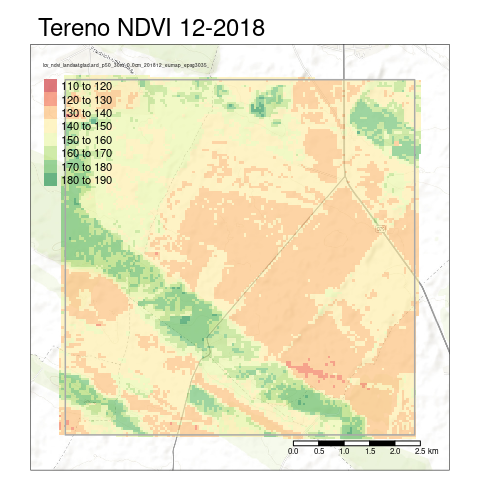
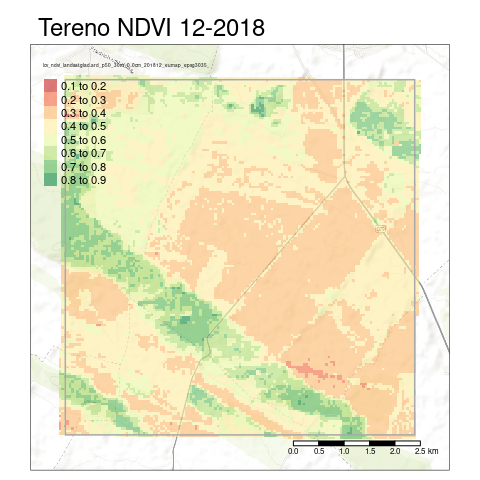
Revert COG values to original NDVI range

diff --git a/code/download_ODS.md b/code/download_ODS.md
@@ -107,6 +107,19 @@ if (!dir.exists(Highres_dir)) {dir.create(Highres_dir,
   - Save as Geotiff each 3-month average NDVI for 20 years covering the
     eLTER site
 
+Note that the Geoharmonizer program produces Cloud Optimized Geotiff
+(COG) files. Details at: <https://www.cogeo.org/> and the gdal driver is
+documented here: <https://gdal.org/drivers/raster/cog.html>. Thus the
+NDVI values, originally calculated as Float32 numbers are scaled to the
+range 0 to 200 and converted to byte values thru:
+
+\[NDVI_{COG} = (NDVI * 100) + 100\]
+
+We revert the COG NDVI values to original NDVI (values from -1 to +1)
+by:
+
+\[NDVI = (NDVI_{COG} - 100) / 100\]
+
 This code runs for a few minutes
 
 ``` r
@@ -128,6 +141,8 @@ lapply(1:length(ODS_NDVI_list$name), FUN = function(x){
                    ODS_wasabi, ods_folder, "/", ods_name)
   rast_ndvi = terra::rast(ods_url)
   site_ndvi = crop(rast_ndvi, vect(site_sf_ETRS))
+  #Revert to original NDVI, undo the COG value
+  site_ndvi = (site_ndvi - 100) / 100.0
   terra::writeRaster(site_ndvi, site_path, overwrite = TRUE)
 })
 ```

diff --git a/code/download_MODIS.md b/code/download_MODIS.md
@@ -376,13 +376,12 @@ tm_shape(NDVI_2) +
 <img src="download_MODIS_files/figure-gfm/visualization-2.png" width="80%" />
 
 ``` r
-site_timeseries = list.files(file.path(Figures_dir, site), 
-                          pattern = ".png$",
-                          full.names = TRUE)
+site_timeseries = file.path('download_MODIS_files/figure-gfm/', 
+                          "Cairngorm_timeseries_plots.png")
 knitr::include_graphics(site_timeseries)
 ```
 
-<img src="../Figures/Cairngorms/Cairngorms_timeseries_plots.png" width="80%" />
+<img src="download_MODIS_files/figure-gfm//Cairngorm_timeseries_plots.png" width="80%" />
 
 <div id="refs" class="references hanging-indent">
 
